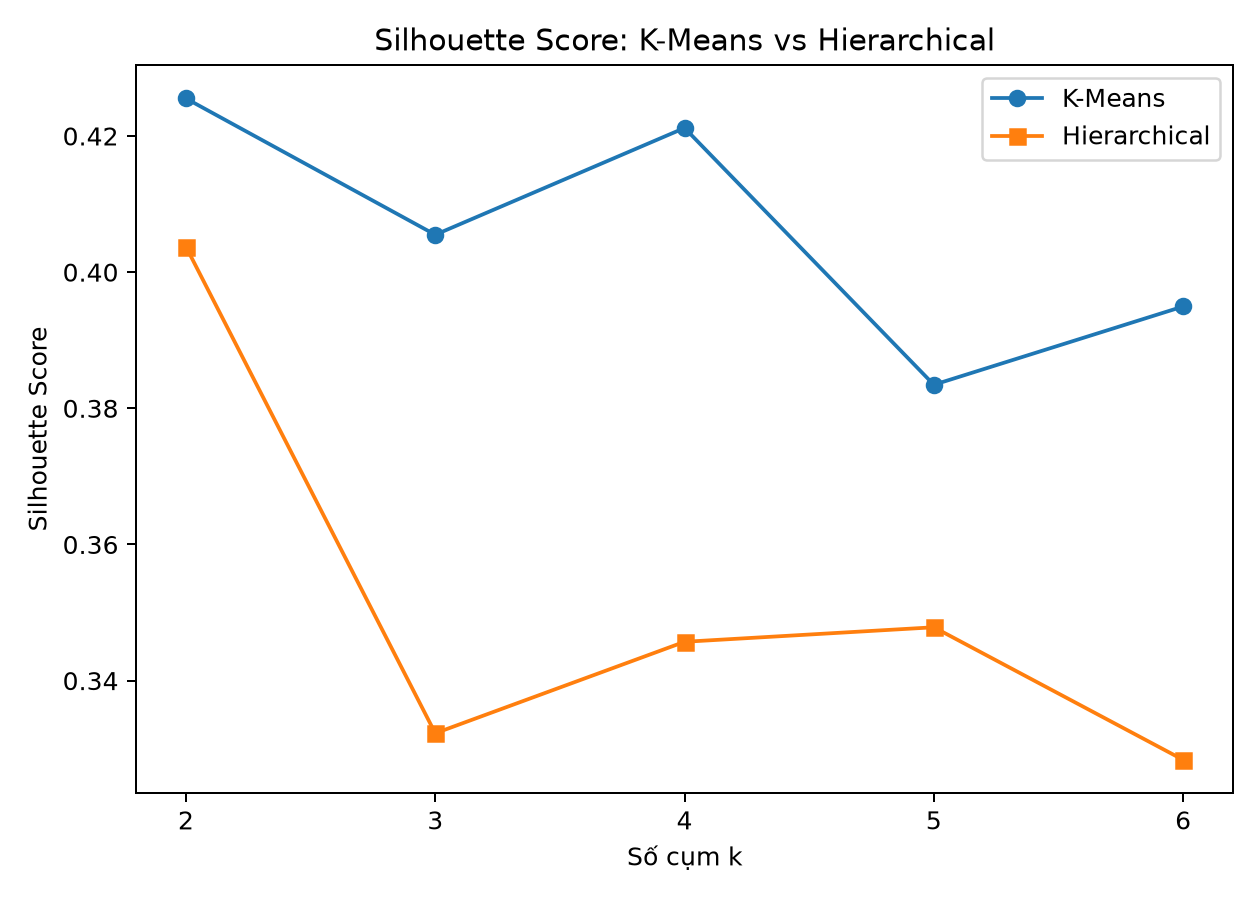
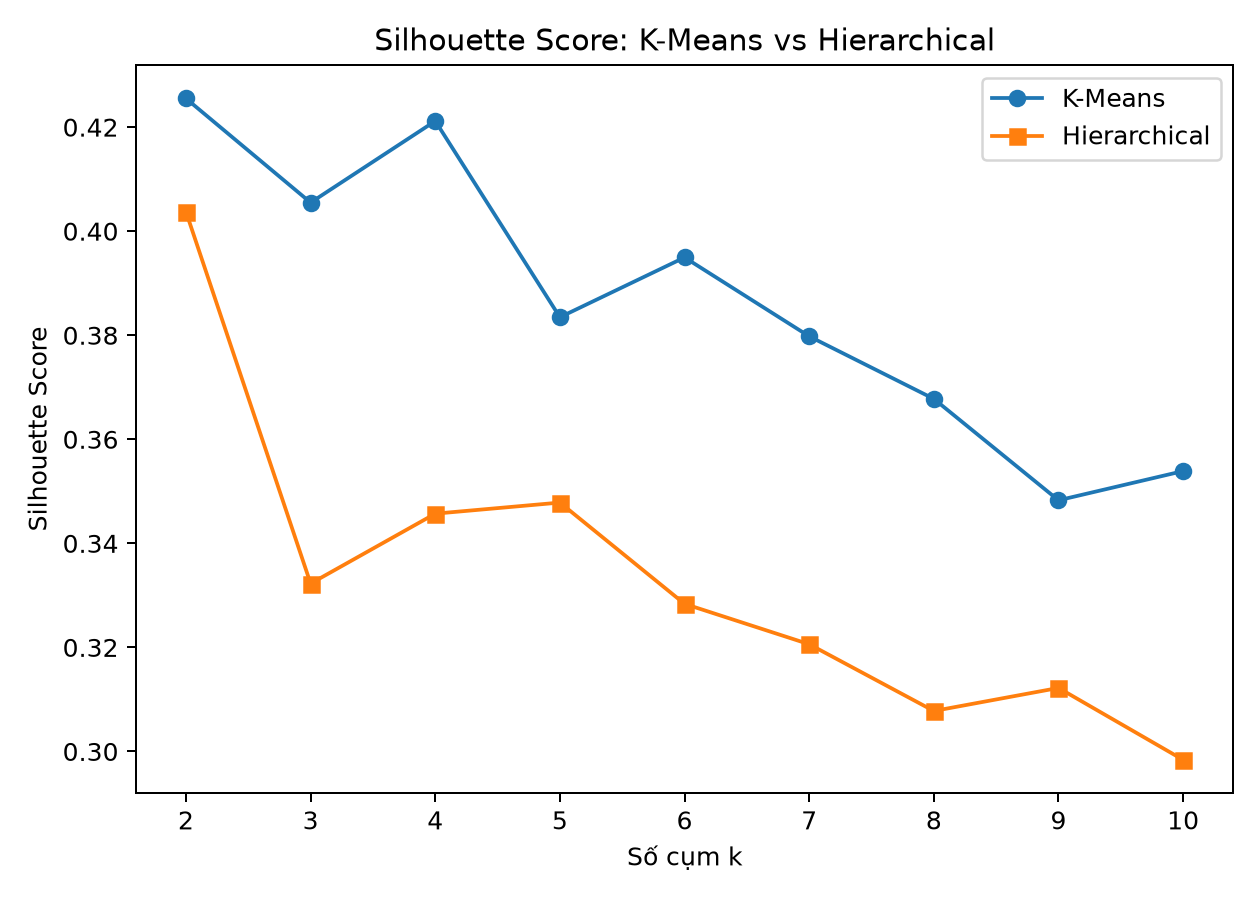
Evaluate clustering candidates from k 2 through 10

diff --git a/src/clustering.py b/src/clustering.py
@@ -47,7 +47,7 @@ def load_data(path: str | Path) -> pd.DataFrame:
     return data
 
 
-def evaluate(data: pd.DataFrame, k_values=range(2, 7), random_state=42):
+def evaluate(data: pd.DataFrame, k_values=range(2, 11), random_state=42):
     X = StandardScaler().fit_transform(data[FEATURES])
     rows = []
     for k in k_values:

diff --git a/README.md b/README.md
@@ -75,7 +75,7 @@ data_loader -> preprocessor -> classification / clustering -> evaluator
 
 ## Chay lai clustering tren nhanh test_4
 
-Nhanh nay dung mot bo input rieng va thong nhat quy trinh: quet `k = 2..6`
+Nhanh nay dung mot bo input rieng va thong nhat quy trinh: quet `k = 2..10`
 cho K-Means va Hierarchical, sau do phan tich cuoi voi `k = 4`. File input
 `data/working_raw_7043.csv` co 7.043 dong va chua bi scale; StandardScaler
 duoc fit trong `src/clustering.py`.
